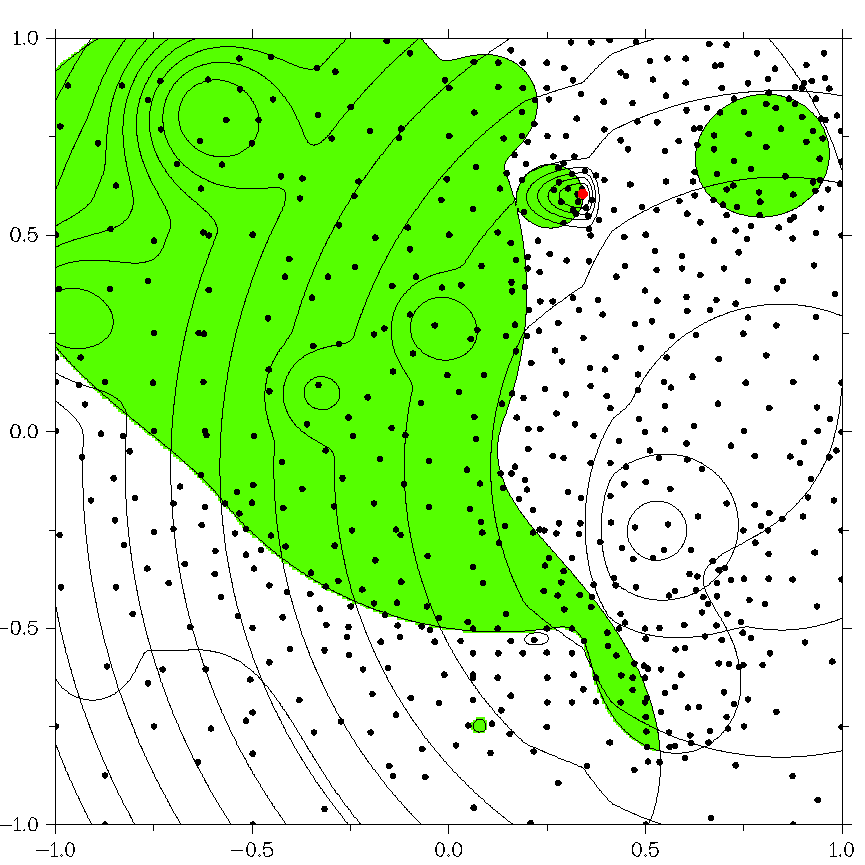
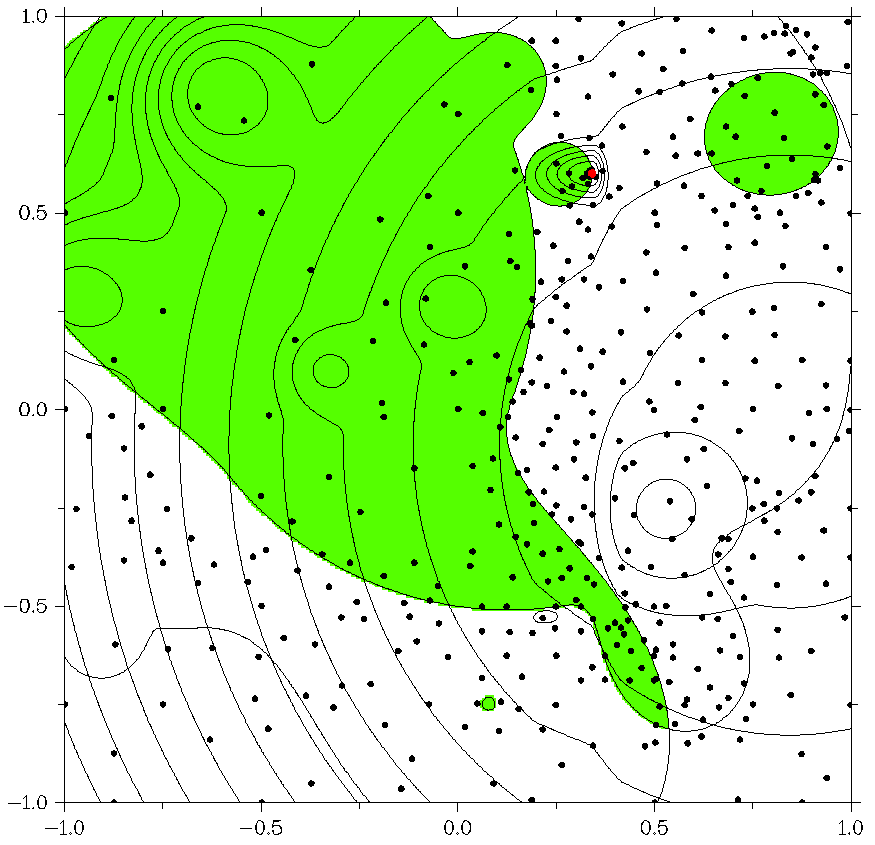
figures are corrected

diff --git a/2019/NUMTA_Barkalov/Special Issure/article.tex b/2019/NUMTA_Barkalov/Special Issure/article.tex
@@ -130,8 +130,8 @@ and the set of solutions $Y_{\epsilon}$, which are not worse than the $\varepsil
 \end{equation}
 Fig. \ref{fig:eps_reserved_solution} illustrates the concepts introduced.
 
-\begin{figure}[h]
-	\center{\includegraphics[width=0.7\linewidth]{epsilon_reserved_solution}}
+\begin{figure}%[h]
+	\center{\includegraphics[width=0.6\linewidth]{epsilon_reserved_solution}}
 	\caption{$\varepsilon$-reserved solution.}
 	\label{fig:eps_reserved_solution}
 \end{figure}
@@ -149,13 +149,13 @@ This situation is typical for the optimal design problems when some conditions f
 	\varphi(y(x^\ast))=\min \left\{\varphi(y(x)): x \in [0,1], \; g_j(y(x))\leq 0, \; 1 \leq j \leq m\right\}.
 \end{equation}
 The issues of the numerical construction of the Peano space filling curve-type mappings and the corresponding theory were described in detail in \cite{Strongin2000, Sergeyev2013}. Note that the theoretical Peano curve $y(x)$ is a limit object and in practice is replaced by its approximation (called \textit{evolvent}) with predefined precision $2^{-m}$, where the number $m>1$ is a parameter (the \textit{density} of the evolvent). The evolvent density is determined by the accuracy of the possible practical implementation of the problem solution found. For  illustration, Fig. \ref{fig:evolvent} (a), (b) shows the projections of the interval [0,1] for the mapping $y(x)$ with $N=2$ and $m=4,5$, correspondingly.
-\begin{figure}[h]
-	\begin{minipage}[h]{0.48\linewidth}
-		\center{\includegraphics[width=1.0\linewidth]{evolvent_N=2_m=4} \\ (a)}
+\begin{figure}%[h]
+	\begin{minipage}[h]{0.45\linewidth}
+		\center{\includegraphics[width=1.0\linewidth]{evolvent_N=2_m=4} \\ {\footnotesize(a)}}
 	\end{minipage}
 	\hfill
-	\begin{minipage}[h]{0.48\linewidth}
-		\center{\includegraphics[width=1.0\linewidth]{evolvent_N=2_m=5} \\ (b)}
+	\begin{minipage}[h]{0.45\linewidth}
+		\center{\includegraphics[width=1.0\linewidth]{evolvent_N=2_m=5} \\ {\footnotesize(b)}}
 	\end{minipage}
 	\caption{Evolvent for $N=2$ and $m=4$ (a), $m=5$ (b)}
 	\label{fig:evolvent}
@@ -419,11 +419,11 @@ The feasible domain of this problem is not connected and consists of three subdo
 
 \begin{figure}[h]
 	\begin{minipage}[h]{0.48\linewidth}
-		\center{\includegraphics[width=\linewidth]{stronginC3_IA} \\ a)}
+		\center{\includegraphics[width=\linewidth]{stronginC3_IA} \\ {\footnotesize(a)}}
 	\end{minipage}
 	\hfill
 	\begin{minipage}[h]{0.48\linewidth}
-		\center{\includegraphics[width=\linewidth]{stronginC3_IA-DL} \\ b)}
+		\center{\includegraphics[width=\linewidth]{stronginC3_IA-DL} \\ {\footnotesize(b)}}
 	\end{minipage}
 	\caption{Solving a problem by IA (a) and IA-DL (b) methods}
 	\label{fig:example_strongin}
@@ -507,11 +507,11 @@ and (according to Rules 5 and 6 of the IA-DL method) the next iteration falls in
 	
 \begin{figure}[h!]
 	\begin{minipage}[h]{0.48\linewidth}
-		\center{\includegraphics[width=\linewidth]{Simple_59_IA} \\ a)}
+		\center{\includegraphics[width=\linewidth]{Simple_59_IA} \\ {\footnotesize(a)}}
 	\end{minipage}
 	\hfill
 	\begin{minipage}[h]{0.48\linewidth}
-		\center{\includegraphics[width=\linewidth]{Simple_59_IA-DL} \\ b)}
+		\center{\includegraphics[width=\linewidth]{Simple_59_IA-DL} \\ {\footnotesize(b)}}
 	\end{minipage}
 	\caption{Solving a problem of the “Simple” class by IA (a) and IA-DL (b) methods}
 	\label{fig:examples_simple}
@@ -519,17 +519,17 @@ and (according to Rules 5 and 6 of the IA-DL method) the next iteration falls in
 
 \begin{figure}[h!]
 	\begin{minipage}[h]{0.48\linewidth}
-		\center{\includegraphics[width=\linewidth]{Hard_7_IA} \\ a)}
+		\center{\includegraphics[width=\linewidth]{Hard_7_IA} \\ {\footnotesize(a)}}
 	\end{minipage}
 	\hfill
 	\begin{minipage}[h]{0.48\linewidth}
-		\center{\includegraphics[width=\linewidth]{Hard_7_IA-DL} \\ b)}
+		\center{\includegraphics[width=\linewidth]{Hard_7_IA-DL} \\ {\footnotesize(b)}}
 	\end{minipage}
 	\caption{Solving a problem of the “Hard” class by IA (a) and IA-DL (b) methods}
 	\label{fig:examples_hard}
 \end{figure}
 
-	Also, the points of the trials performed by (a) the original index algorithm (IA) and by (b) the method with dual estimate of the Lipschitz constant (IA-DL) are marked in Figs. \ref{fig:examples_simple} and \ref{fig:examples_hard}. To solve the problems shown in Figs. \ref{fig:examples_simple} and \ref{fig:examples_hard}, the IA method required 643 and 1166 iterations whereas the IA-DL method solved similar problems for 373 and 712 iterations, respectively.
+	Also, the points of the trials performed by (a) the original index algorithm (IA) and by (b) the method with dual estimate of the Lipschitz constant (IA-DL) are marked in Figs. \ref{fig:examples_simple} and \ref{fig:examples_hard}. To solve the problems shown in Figs. \ref{fig:examples_simple} and \ref{fig:examples_hard}, the IA method required 643 and 1132 iterations whereas the IA-DL method solved similar problems for 373 and 443 iterations, respectively.
 	
 	The reduction of the number of trials was also confirmed by solving several series of  problems composed of the functions of the “Simple” and “Hard” classes. Each series consisted of 100 problems and was solved by the IA and IA-DL methods. The global minimizer $y^{\ast}$ was considered to be found, if the algorithm generated a trial point $y^k$ in the vicinity of the global minimum, i.e. $\| y^{\ast} - y^k \| < \varepsilon \|b - a\|$, where $a$ and $b$ are the boundaries of the search domain $D$. To reduce the dimensionality, the evolvent constructed with the parameter $m=10$ was used in both algorithms. The relative accuracy of the search for the solution at $N = 2, 3$ was $\epsilon=0.01$ and for the solution at $N=4,5$  it was $\epsilon=0.03$. The reservation parameters $\epsilon_{\nu}=\mu_{\nu} \delta,\; 1 \leq \nu \leq 2$, were set according to formula (\ref{epsilon_nu}) with $\delta=0.01$. The maximum number of iterations at $N \leq 4$ was set as $K_{max} = 10^6$, and at $N=5$ as $K_{max}=7 \cdot 10^6$.
 
@@ -575,11 +575,11 @@ and (according to Rules 5 and 6 of the IA-DL method) the next iteration falls in
 
 \begin{figure}[h!]
 	\begin{minipage}[h]{0.48\linewidth}
-		\center{\includegraphics[width=\linewidth]{Operating_characteristic_gklssC_3} \\ a)}
+		\center{\includegraphics[width=\linewidth]{Operating_characteristic_gklssC_3} \\ {\footnotesize(a)}}
 	\end{minipage}
 	\hfill
 	\begin{minipage}[h]{0.48\linewidth}
-		\center{\includegraphics[width=\linewidth]{Operating_characteristic_gklshC_3} \\ b)}
+		\center{\includegraphics[width=\linewidth]{Operating_characteristic_gklshC_3} \\ {\footnotesize(b)}}
 	\end{minipage}
 	\caption{Operational characteristics for “Simple” (a) and “Hard” (b) problem classes, $N = 3$}
 	\label{fig:operational_characteristics_N=3}
@@ -587,11 +587,11 @@ and (according to Rules 5 and 6 of the IA-DL method) the next iteration falls in
 
 \begin{figure}[h!]
 	\begin{minipage}[h]{0.48\linewidth}
-		\center{\includegraphics[width=\linewidth]{Operating_characteristic_gklssC_5} \\ a)}
+		\center{\includegraphics[width=\linewidth]{Operating_characteristic_gklssC_5} \\ {\footnotesize(a)}}
 	\end{minipage}
 	\hfill
 	\begin{minipage}[h]{0.48\linewidth}
-		\center{\includegraphics[width=\linewidth]{Operating_characteristic_gklshC_5} \\ b)}
+		\center{\includegraphics[width=\linewidth]{Operating_characteristic_gklshC_5} \\ {\footnotesize(b)}}
 	\end{minipage}
 	\caption{Operational characteristics for “Simple” (a) and “Hard” (b) problem classes, $N = 5$}
 	\label{fig:operational_characteristics_N=5}
@@ -603,11 +603,11 @@ and (according to Rules 5 and 6 of the IA-DL method) the next iteration falls in
 
 \begin{figure}[h!]
 	\begin{minipage}[h]{0.48\linewidth}
-		\center{\includegraphics[width=\linewidth]{Decision_rule_gklssC_4} \\ a)}
+		\center{\includegraphics[width=\linewidth]{Decision_rule_gklssC_4} \\ {\footnotesize(a)}}
 	\end{minipage}
 	\hfill
 	\begin{minipage}[h]{0.48\linewidth}
-		\center{\includegraphics[width=\linewidth]{Decision_rule_gklshC_4} \\ b)}
+		\center{\includegraphics[width=\linewidth]{Decision_rule_gklshC_4} \\ {\footnotesize(b)}}
 	\end{minipage}
 	\caption{Frequency of the use of different estimates of the Lipschitz constant for the problems of the “Simple” class (a) and of the “Hard” class (b) for $N=4$}
 	\label{fig:frequency_N=4}
